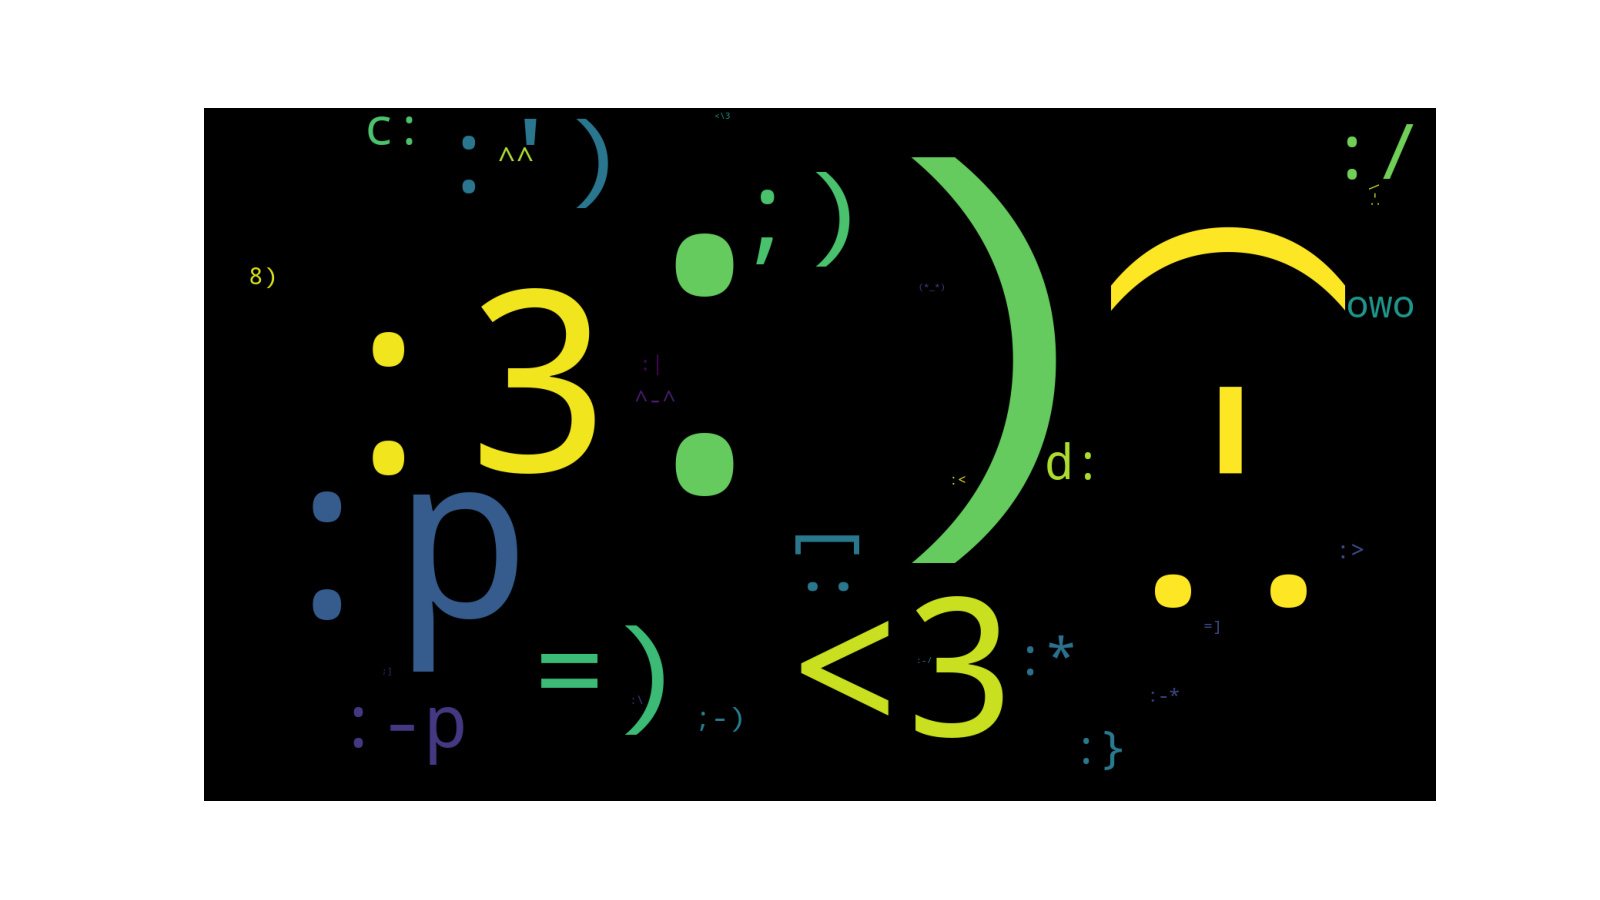
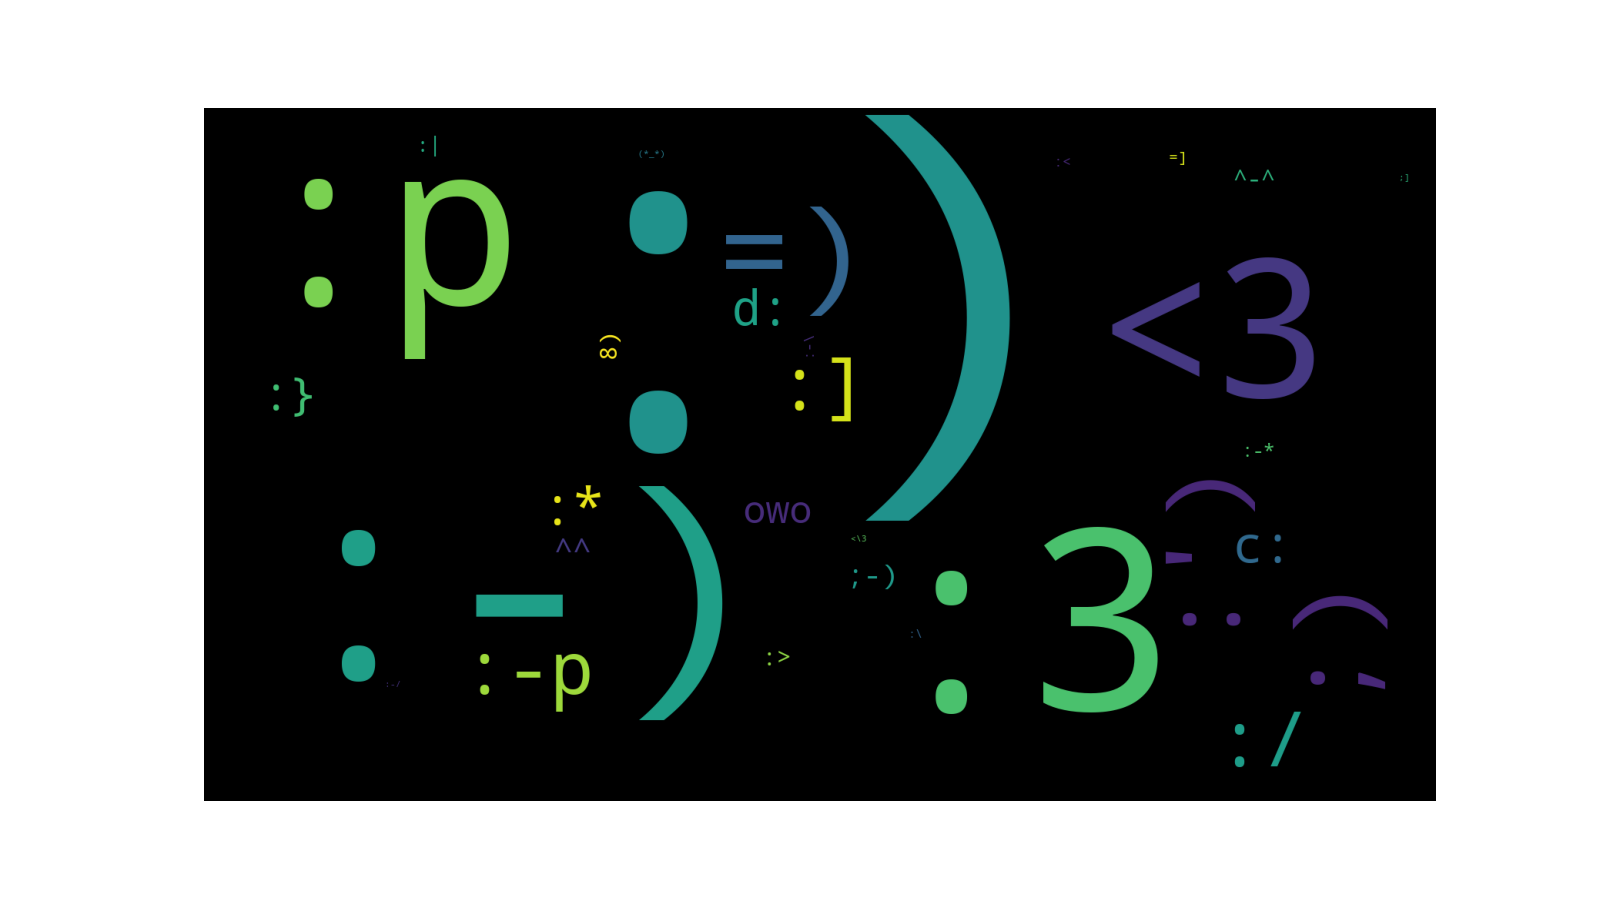
percentages fixed, test and compare mongodb-mysql, wordclouds updates

diff --git a/src/natural.py b/src/natural.py
@@ -192,7 +192,7 @@ def create_word_final_result(dao):
     word_datasets = []
     sentiments = ["anger", "anticipation", "disgust", "fear", "joy", "sadness", "surprise", "trust"]
     for sentiment in sentiments:
-        word_datasets.append(dao.get_counts(sentiment, '_words'))
+        word_datasets.append(dao.get_counts(sentiment, 'words'))
 
     result_list = []
     input_set = []
@@ -303,7 +303,7 @@ def quickstart(dao: Dao):
     dao.build_sentiments(word_datasets, emoji_datasets, emoticons_datasets, hashtag_datasets)
     dao.add_tweets_tokens(tweets_tokens)  # used in relational db
 
-    if input("Do you want to create the definitions of the words? (this can take up to 2 hours) [y/N] ").lower() == "y":
+    if input("\n\tDo you want to create the definitions of the words? (this can take up to 2 hours) [y/N] ").lower() == "y":
         create_definitions(word_datasets, dao)  # toml files
     print("\n\tAdding word definitions...")
     if dao.is_mongodb():
@@ -311,7 +311,7 @@ def quickstart(dao: Dao):
     else:
         dao.dump_definitions()
     if dao.is_mongodb():
-        if input("Do you want to create results for the words? [y/N] ").lower() == "y":
+        if input("\n\tDo you want to create results for the words? [y/N] ").lower() == "y":
             create_word_final_result(dao)
 
     shared_words = check_shared_words(word_datasets)

diff --git a/src/start.py b/src/start.py
@@ -39,17 +39,19 @@ def test_query(db_type="MongoDB"):
 
 
 if __name__ == '__main__':
-    # TODO: test  MongoDB
     # TODO: compare MySQL and MongoDB data
     db_type = "MySQL"  # MongoDB / MySQL
+    # db_type = "MongoDB"  # MongoDB / MySQL
     dao = start_comparison(db_type)
     test_query(db_type)
 
     if input("Do you want to generate the Wordclouds? This could take 10 minutes or more! [y/N] ").lower() == "y":
-        wordcl = WordCloudCreator(Dao(True))
+        wordcl = WordCloudCreator(dao)
         wordcl.generate()
 
-    sentiment_percentages = Dao(True).get_sentiment_percentages()
+    sentiment_percentages = dao.get_sentiment_percentages()
+    if dao.is_mongodb():
+        sentiment_percentages.pop("_id")
     graph_data = {sentiment: sentiment_percentages[sentiment][0] for sentiment in sentiment_percentages}
     build_histogram_matplotlib(graph_data, '% words [lex resources] in tweets')
 

diff --git a/src/file_manager.py b/src/file_manager.py
@@ -15,7 +15,7 @@ def count_file_lines(path: str) -> int:
     @return: # of lines in a file
     """
     if os.name == 'nt':
-        return sum(1 for _ in read_file(path))
+        return sum(1 for _ in open(path))
     else:
         return int(subprocess.check_output(f"/usr/bin/wc -l {path}", shell=True).split()[0])
 
